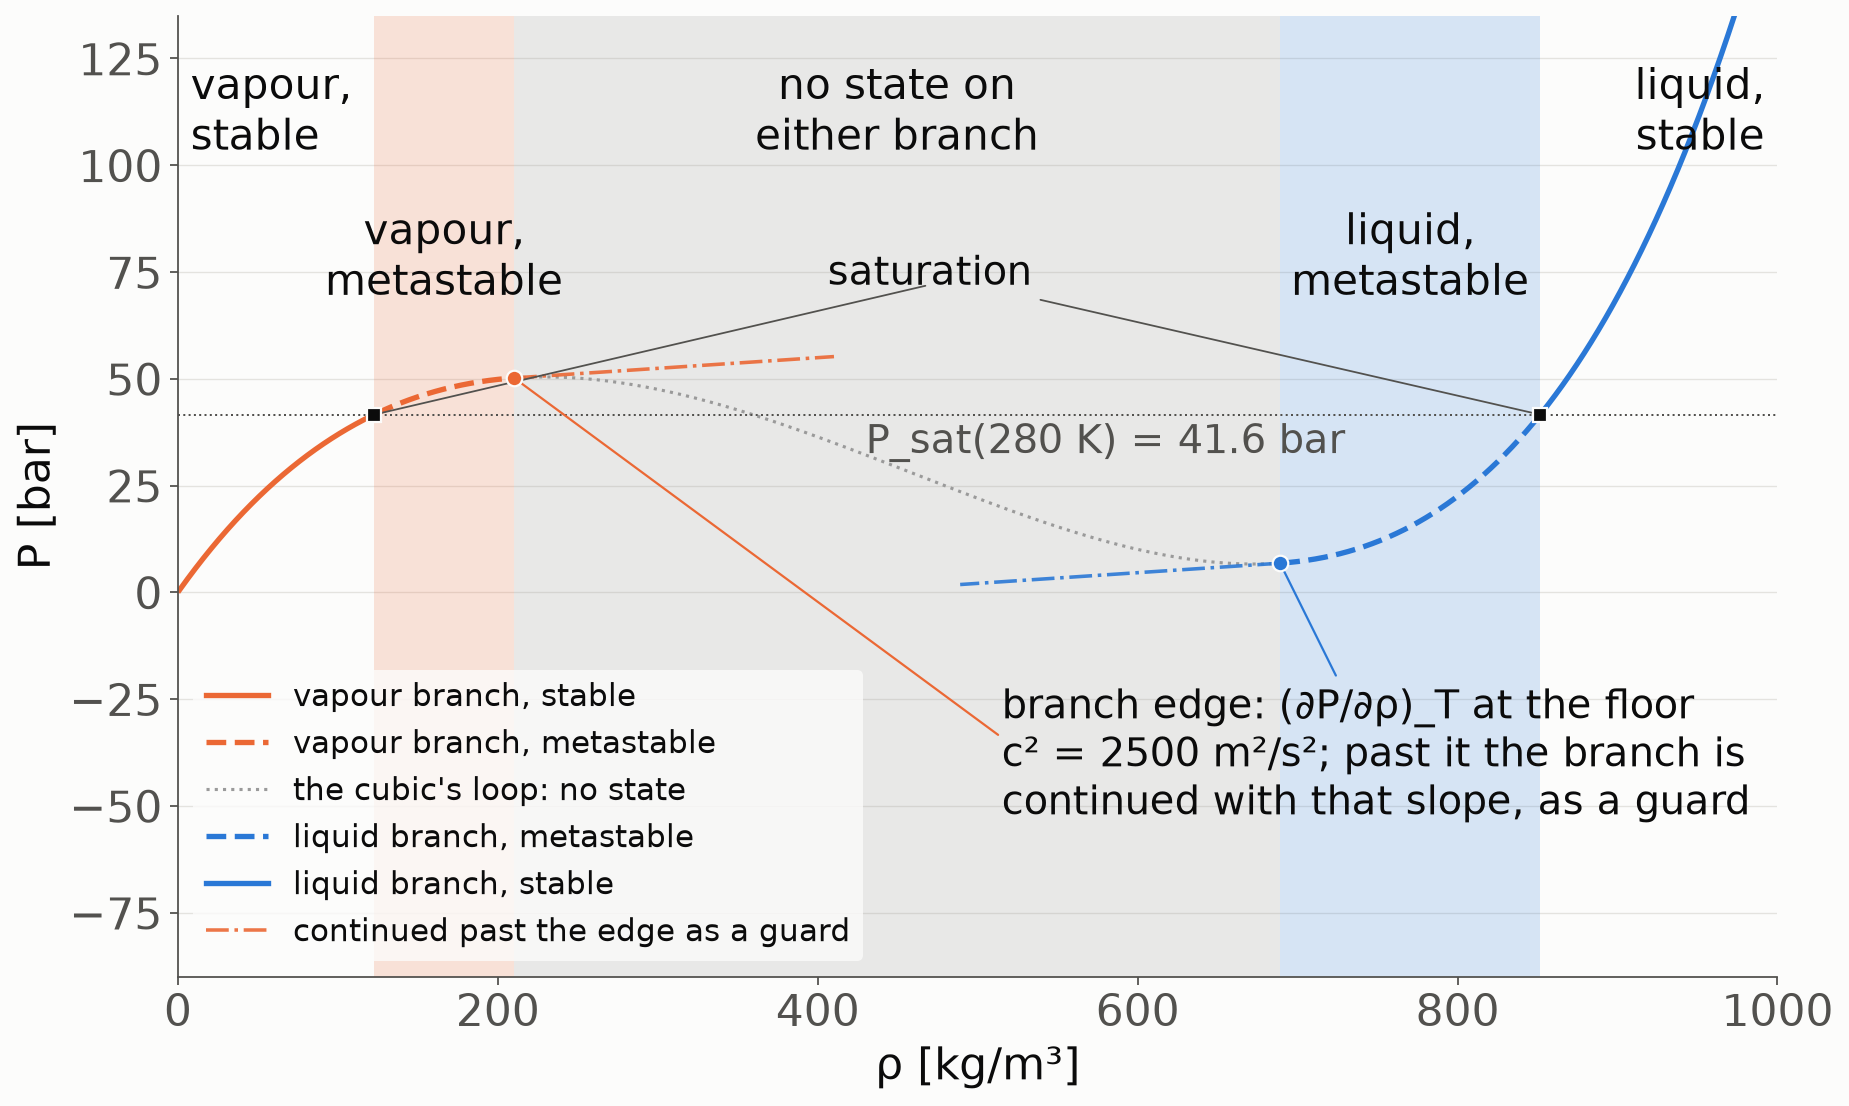
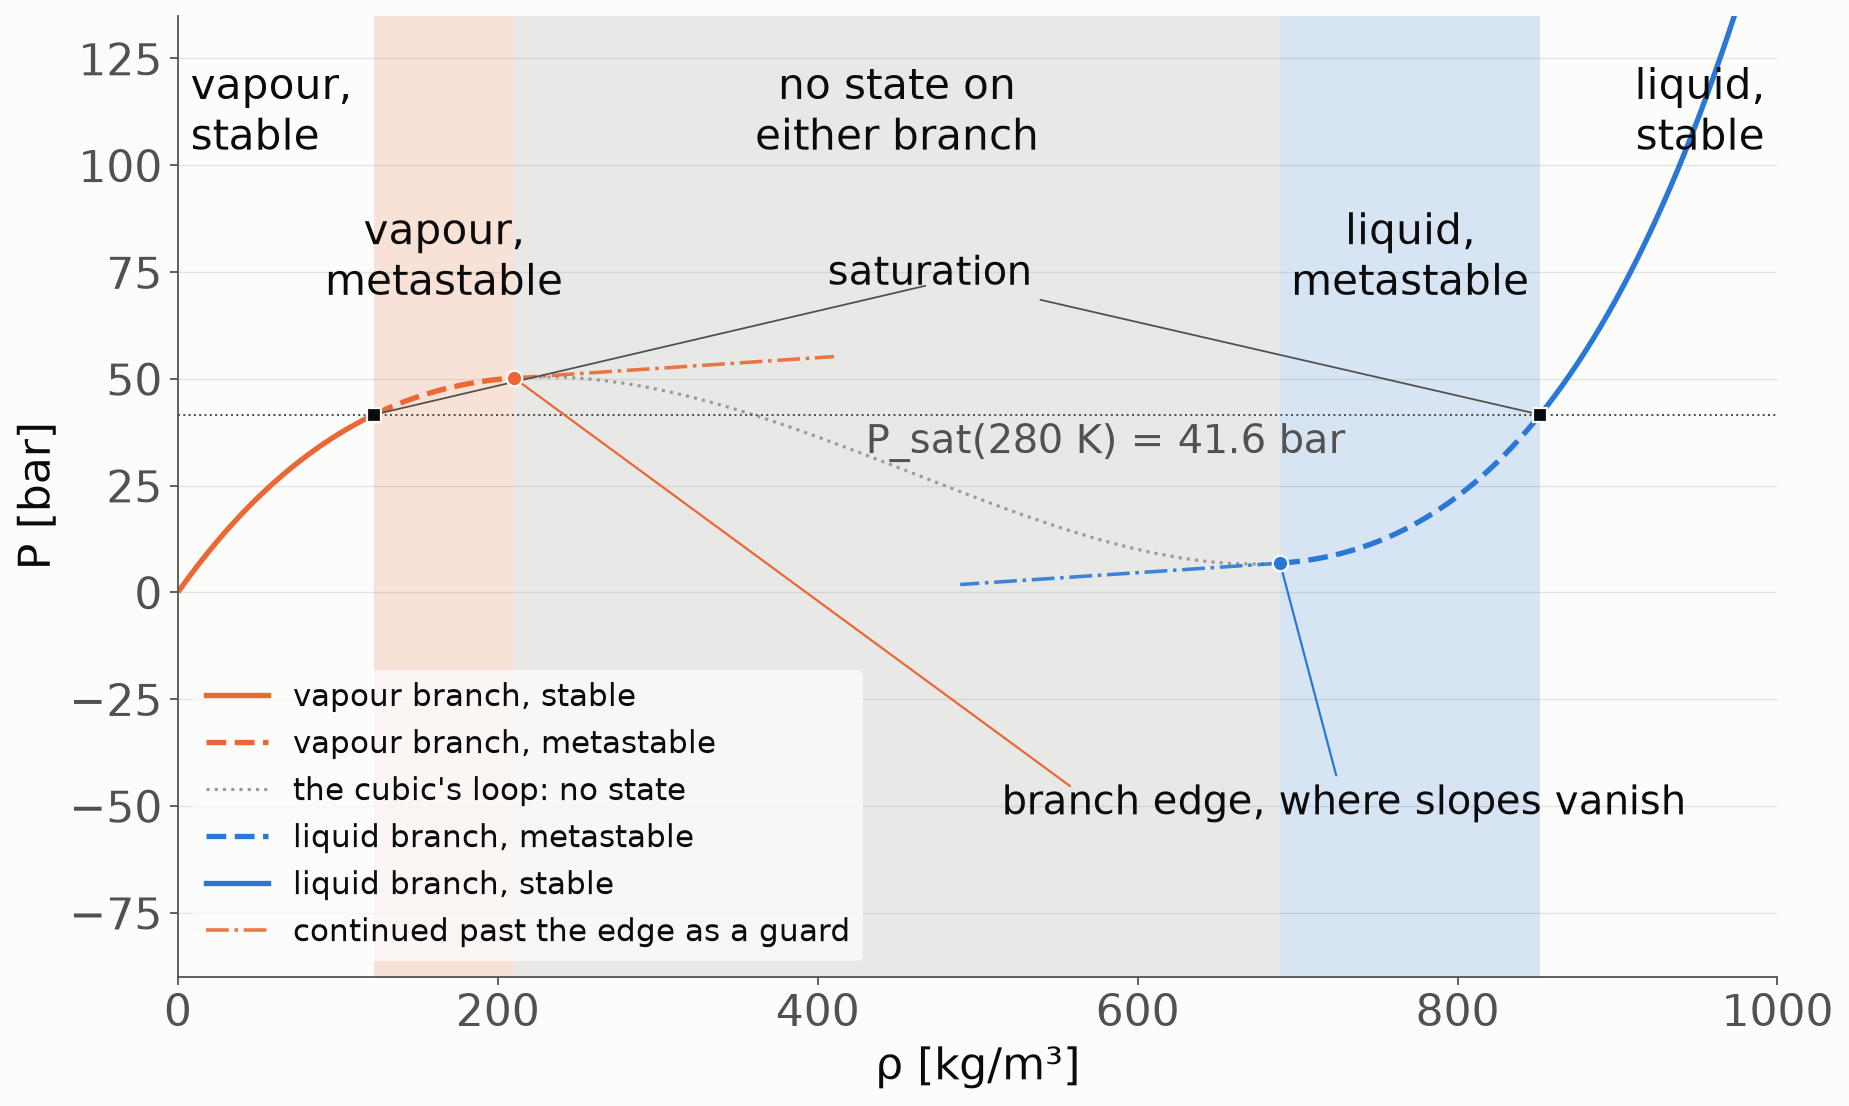
fig12: the branch-edge annotation reads 'branch edge, where slopes vanish'

Changed region(s): [[0.4932, 0.6148, 0.9557, 0.7378], [0.6782, 0.5226, 0.709, 0.5533]]

diff --git a/Exec/EOS_Surrogate/make_figures.py b/Exec/EOS_Surrogate/make_figures.py
@@ -443,9 +443,9 @@ def fig12_dome():
     ax.text(0.5 * (rEV + rEL), yl, 'no state on\neither branch', ha='center', va='top', fontsize=9.5, color=INK)
     ax.text(0.5 * (rEL + rhoL), yl - 34, 'liquid,\nmetastable', ha='center', va='top', fontsize=9.5, color=INK)
     ax.text(992, yl, 'liquid,\nstable', ha='right', va='top', fontsize=9.5, color=INK)
-    ax.annotate('branch edge: (∂P/∂ρ)_T at the floor\nc² = 2500 m²/s²; past it the branch is\ncontinued with that slope, as a guard',
+    ax.annotate('branch edge, where slopes vanish',
                 xy=(rEL, P_of_rho(rEL) / 1e5), xytext=(515, -52), fontsize=9, color=INK, arrowprops=dict(arrowstyle='-', color=lb, lw=1.0))
-    ax.annotate('', xy=(rEV, P_of_rho(rEV) / 1e5), xytext=(515, -34), arrowprops=dict(arrowstyle='-', color=lo, lw=1.0))
+    ax.annotate('', xy=(rEV, P_of_rho(rEV) / 1e5), xytext=(560, -46), arrowprops=dict(arrowstyle='-', color=lo, lw=1.0))
     ax.annotate('saturation', xy=(rhoL, Psat / 1e5), xytext=(470, 72), fontsize=9, color=INK, ha='center', arrowprops=dict(arrowstyle='-', color=INK2, lw=0.8))
     ax.annotate('', xy=(rhoV, Psat / 1e5), xytext=(470, 72), arrowprops=dict(arrowstyle='-', color=INK2, lw=0.8))
     ax.set_xlim(0, 1000); ax.set_ylim(-90, 135)

diff --git a/Exec/EOS_Surrogate/deck/build_pptx.py b/Exec/EOS_Surrogate/deck/build_pptx.py
@@ -36,6 +36,7 @@ FIGS = {
     'd117bb9fd4879616e4ff6232948fe1d8': 'fig6_stage_split_linear.png',
     '40ab9c90e8b0bf24e5a23cae82ec892c': 'fig11_edge_table.png',
     '15893f80c2d8672f744fd9c512946a9e': 'fig12_dome.png',
+    'ed8d23a9d52717b288c587633c0a6e64': 'fig12_dome.png',
 }
 
 INK = RGBColor(0x14, 0x21, 0x3d); INK2 = RGBColor(0x3d, 0x46, 0x54); MUTED = RGBColor(0x6a, 0x71, 0x79)
